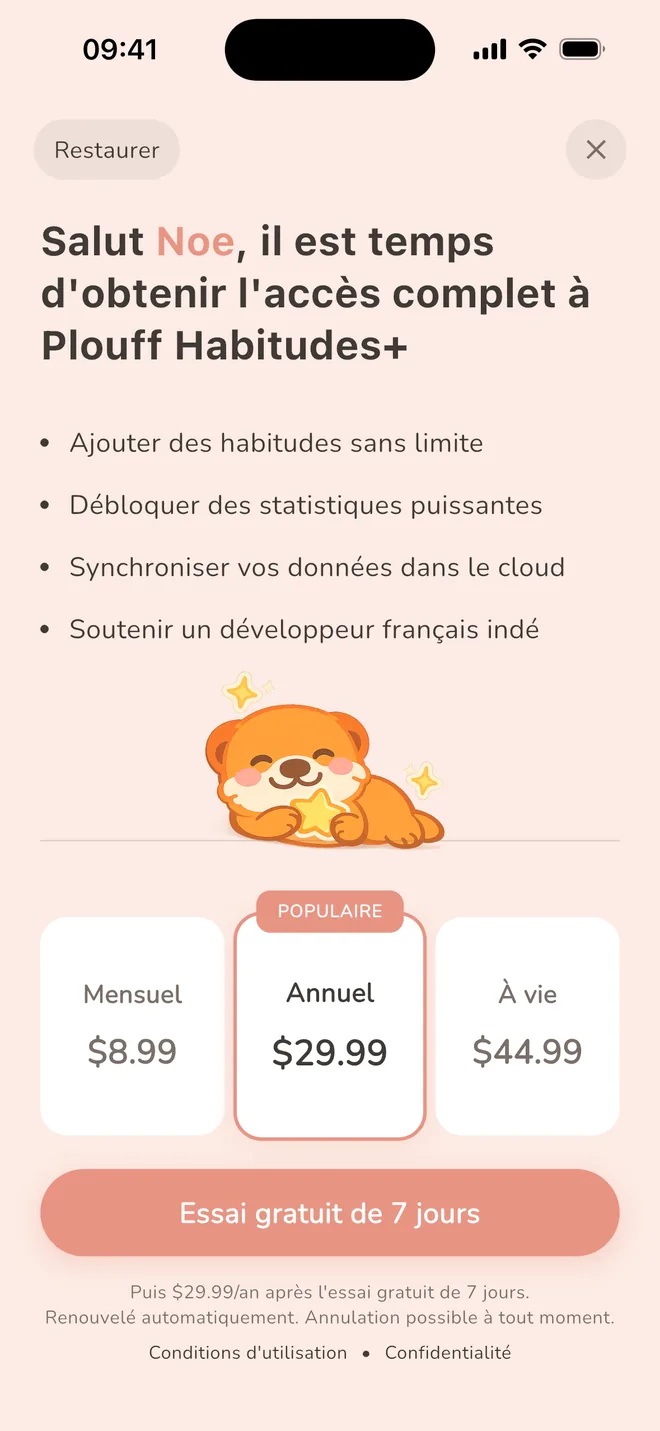
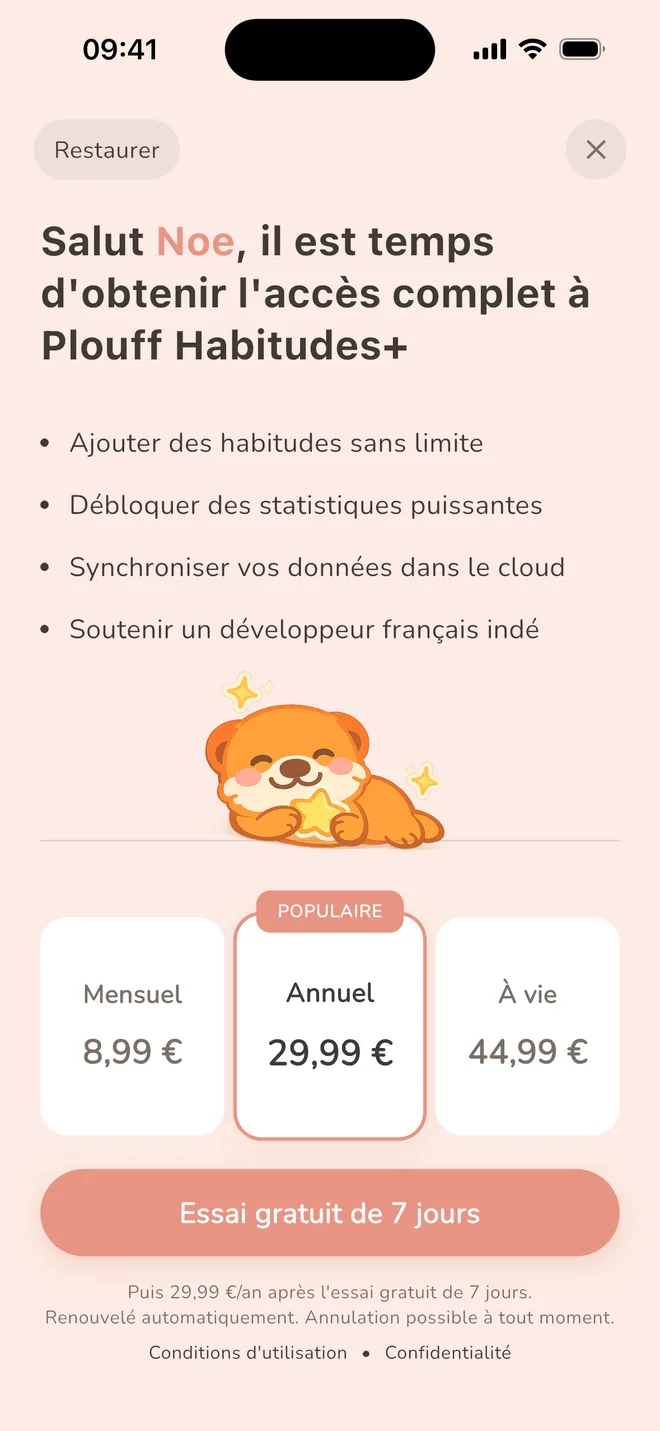
Accueil : les avis clients répondent à « Pourquoi me faire confiance ? »
« Pourquoi me faire confiance ? » montre trois messages WhatsApp réels de
clients (confirmé par Noé ; les mêmes que sur /projets et dans le surligné
« Témoignages » d'Instagram), recadrés sur la conversation, noms masqués.
Barre du haut : « Avis clients » au lieu de « Qui je suis ».

Retirés : la carte avec la photo (la tête de Noé deux fois avec la barre),
« Je connais ce milieu », et le tableau contre les agences. Le chiffre d'une
agence passe sous le tarif et le délai : « En agence : à partir de
15 000 € », « En agence : 3 à 6 mois ».

Sur ordinateur, moins de vide autour de « Discuter avec Noé » (160 px
jusqu'à « Avis clients » au lieu de 224). Écran d'abonnement de Plouff
Habitudes : la capture de Noé en euros.

Claude-Session: https://claude.ai/code/session_01P65FVpXqpWWQ7RQy5iUe2y

diff --git a/src/App.jsx b/src/App.jsx
@@ -108,28 +108,16 @@ const MONTRER_PASTILLE_HERO = false
 
 // Barre du haut (11/10/2026) : les petits titres des trois sections qui comptent le plus, mot pour mot, dans l'ordre de
 // la page, pour qu'on retrouve en arrivant le mot sur lequel on a cliqué : « Réalisations », « Étapes et tarif » (le
-// prix est la première question de la cible : on doit voir d'un coup d'œil où il est), « Qui je suis ». Plus d'« Audit » : c'est un plus, pas ce qu'on pousse (Noé) ; il reste en bas de page et dans le
-// pied de page, et la route /audit y mène toujours. Les trois tiennent à côté du bouton dès 1024 px.
+// prix est la première question de la cible : on doit voir d'un coup d'œil où il est), « Avis clients » (« Qui je suis »
+// jusqu'au 11/10/2026 : la section est devenue les avis des clients). Plus d'« Audit » : c'est un plus, pas ce qu'on
+// pousse (Noé) ; il reste en bas de page et dans le pied de page, et la route /audit y mène toujours. Les trois tiennent à
+// côté du bouton dès 1024 px.
 const NAV_LINKS = [
   { ancre: 'calories-proof', label: 'Réalisations' },
   { ancre: 'offre', label: 'Étapes et tarif' },
-  { ancre: 'confiance', label: 'Qui je suis' },
+  { ancre: 'confiance', label: 'Avis clients' },
 ]
 
-// « Pourquoi me faire confiance ? » : la comparaison avec une agence, remise le 11/10/2026 à la demande de Noé (« agence
-// vs moi, tu l'as enlevé ? »), sur trois lignes. Elle redit le tarif, le délai et le contact direct, et c'est voulu : le
-// chiffre de l'agence à côté de celui de Noé. La maquette offerte et « je reste là après la mise en ligne » n'y sont
-// plus : les étapes les disent (Noé, 11/10/2026).
-const COMPARAISON_AGENCE = [
-  ['À partir de 15\u00a0000\u00a0€', 'Tarif fixe, connu d’avance'],
-  ['3 à 6 mois de développement', '45\u00a0jours en moyenne'],
-  ['Un chef de projet entre vous', 'Moi, directement, 6\u00a0jours sur\u00a07'],
-]
-
-// Avis clients de « Pourquoi me faire confiance ? ». Vide tant que Noé n'en a pas envoyé : la section n'affiche
-// alors rien de plus. Forme d'un avis : { texte: '…', nom: 'Prénom N.', application: 'Nom de l'application' }.
-// N'ajouter que des avis réels, avec l'accord de la personne.
-const AVIS_CLIENTS = []
 
 // `trigger` permet de re-attacher l'observer quand la page change.
 // Indispensable car les elements .reveal de la home n'existent pas tant
@@ -895,8 +883,10 @@ function App() {
           construis » depuis le 11/10/2026 (« c'est moi qui m'occupe de tout », Noé ; avant : « On construit ensemble »). Sous les étapes,
           le tarif et le délai, chacun avec son icône : ils trient les budgets avant WhatsApp (la réponse de la FAQ est
           repliée, ceux-ci se voient).
-          Le bouton dit « Discuter avec Noé », la suite de l'étape 1 « On en parle ». Id « offre » : lien « Étapes ». */}
-      <section className="py-14 md:py-28 px-5 bg-card" id="offre">
+          Le bouton dit « Discuter avec Noé », la suite de l'étape 1 « On en parle ». Sur ordinateur, moins d'air sous le
+          bouton (80 px au lieu de 112, et 80 au-dessus des avis) : il y avait 224 px vides entre lui et « Avis clients »
+          (Noé, 11/10/2026). Id « offre » : lien « Étapes ». */}
+      <section className="pt-14 pb-14 md:pt-28 md:pb-20 px-5 bg-card" id="offre">
         <div className="max-w-275 mx-auto">
           <p className="reveal text-brand font-semibold text-[0.78rem] tracking-widest uppercase text-center mb-3">
             Étapes et tarif
@@ -949,23 +939,29 @@ function App() {
           {/* Le prix et le délai, sous les trois étapes : deux repères avec leur icône (Noé, 11/10/2026 : une seule ligne
               de texte « faisait fade »). Le délai est « 45 jours en moyenne », sans « première version » (Noé, 11/10/2026 :
               45 jours partout, FAQ comprise). « Mobile ou web » et pas « SaaS » : « SaaS » ne s'écrit jamais seul
-              (documentation/context/vocabulaire-mobile-web.md, règle 6 bis). Mise en page : `.etape-tarif` dans src/App.css. */}
+              (documentation/context/vocabulaire-mobile-web.md, règle 6 bis). Sous chaque repère, le chiffre d'une agence (« à partir de
+              15 000 € », « 3 à 6 mois ») : le contraste se lit au moment où on lit le prix, à la place du tableau « Une agence /
+              Avec moi » de « Pourquoi me faire confiance ? », retiré le 11/10/2026 (deux tableaux croix/coche à la suite, et
+              « un chef de projet entre vous », Noé : « il s'en fout, il veut un résultat »). Mise en page : `.etape-tarif` dans
+              src/App.css. */}
           <ul className="reveal etape-tarif">
             <li>
               <span className="etape-tarif-icone" aria-hidden="true"><BadgeEuro size={20} strokeWidth={2} /></span>
               <span className="etape-tarif-texte">
                 <strong>Tarif fixe</strong> En général une dizaine de milliers d'euros&nbsp;: stratégie, maquette, développement et mise en ligne.
+                <span className="etape-tarif-agence">En agence&nbsp;: à partir de 15&nbsp;000&nbsp;€</span>
               </span>
             </li>
             <li>
               <span className="etape-tarif-icone" aria-hidden="true"><Timer size={20} strokeWidth={2} /></span>
               <span className="etape-tarif-texte">
                 <strong>45&nbsp;jours en moyenne</strong> Pour une application mobile ou web.
+                <span className="etape-tarif-agence">En agence&nbsp;: 3 à 6&nbsp;mois</span>
               </span>
             </li>
           </ul>
 
-          <div className="reveal flex flex-col items-center mt-8 md:mt-12">
+          <div className="reveal flex flex-col items-center mt-8 md:mt-10">
             <a
               href={lienInterne('/rendez-vous')}
               onClick={goBookCall}
@@ -981,70 +977,43 @@ function App() {
         </div>
       </section>
 
-      {/* ========== POURQUOI ME FAIRE CONFIANCE ========== */}
-      {/* Refonte du 10/10/2026, revue le 11/10/2026 avec Noé. À gauche, la carte : la photo, « Je connais ce milieu » et
-          « J'ai lancé mes propres applications. » (les mots de Noé ; « Je travaille sur la tienne comme si c'était la
-          mienne » lui semblait bizarre). Ses applications ne sont PAS nommées ici : WakeUp Alarme et Plouff Habitudes
-          sont dans le carrousel « Ce que j'ai déjà construit », et les nommer ici ferait relire tout le carrousel comme
-          « ses applications à lui, pas celles de ses clients ». Le titre du carrousel est vrai pour toutes ; ne jamais
-          écrire nulle part qu'elles sont à des clients. À droite, la comparaison avec une agence, sur trois lignes
-          (COMPARAISON_AGENCE). Retirés : le nom et « Expert en applications mobiles & web » (la barre du haut les
-          affiche déjà), « Je fais tout moi-même » (le sous-titre du hero le dit, et Noé craignait qu'on lise « pas
-          spécialisé, pas expert ») et « une dizaine d'idées par semaine » (mot pour mot dans la vidéo). Les avis clients
-          iront dans AVIS_CLIENTS (vide pour l'instant : rien n'est affiché). Id « confiance » : la route /avis y mène.
-          Placement de la photo et des deux phrases : `.confiance-…` dans src/App.css. */}
-      <section className="py-16 md:py-28 px-5" id="confiance">
+      {/* ========== POURQUOI ME FAIRE CONFIANCE ? LES AVIS CLIENTS ========== */}
+      {/* Depuis le 11/10/2026, la réponse à « Pourquoi me faire confiance ? », ce sont les clients, pas Noé (Noé : « il veut de
+          la preuve sociale »). Trois messages WhatsApp réels (Noé, 11/10/2026), les mêmes que sur /projets, recadrés sur la
+          conversation (public/assets/images/avis/), le nom des clients masqué comme sur l'Instagram de Noé (le surligné
+          « Témoignages » : ce sont les trois mêmes, il n'y en a pas d'autres pour l'instant). Ordre : l'idée devenue application (le visiteur s'y reconnaît), l'application
+          d'agence qui ne rapportait pas (« pourquoi moi et pas une agence », et la preuve des écrans qui font payer, sans
+          redire la vidéo), puis les délais tenus. Le titre de chaque carte est écrit ici, en JSX : c'est ce que lisent les
+          robots. Juste après le bouton « Discuter avec Noé » des étapes : la preuve arrive au moment où le visiteur hésite.
+          Plus de photo de Noé ici (elle est déjà dans la barre du haut), plus de tableau contre les agences (son chiffre est
+          dans le tarif et le délai, au-dessus). Id « confiance » : la route /avis y mène. Styles : `.avis-…` dans src/App.css. */}
+      <section className="pt-16 pb-16 md:pt-20 md:pb-28 px-5" id="confiance">
         <div className="max-w-275 mx-auto">
           <p className="reveal text-brand font-semibold text-[0.78rem] tracking-widest uppercase text-center mb-3">
-            Qui je suis
+            Avis clients
           </p>
           <h2 className="reveal font-jakarta text-text text-2xl md:text-[2.1rem] font-extrabold tracking-tight text-center mb-8 md:mb-14">
             Pourquoi me faire <span className="text-brand">confiance ?</span>
           </h2>
 
-          <div className="reveal grid grid-cols-1 md:grid-cols-2 gap-4 md:gap-8 max-w-262 mx-auto">
-            <div className="confiance-carte rounded-[20px] bg-brand-wash border border-brand/20 p-6 md:p-8">
-              <img src={mePhoto} alt="Noé Calmes" width="96" height="96" loading="lazy" className="confiance-photo rounded-full object-cover shadow-sm" />
-              <div className="confiance-mots">
-                <p className="confiance-titre font-jakarta text-text font-extrabold tracking-tight">
-                  Je connais ce milieu
-                </p>
-                <p className="confiance-texte text-grey leading-relaxed">
-                  J'ai lancé mes propres applications.
-                </p>
-              </div>
-            </div>
-
-            <div className="rounded-[20px] border border-card-border bg-surface overflow-hidden flex flex-col">
-              <div className="grid grid-cols-2 text-[0.85rem] md:text-[0.9rem] font-bold">
-                <p className="px-4 md:px-6 py-3.5 text-grey bg-card">Une agence</p>
-                <p className="px-4 md:px-6 py-3.5 text-brand bg-brand/6">Avec moi</p>
-              </div>
-              {COMPARAISON_AGENCE.map(([agence, moi]) => (
-                <div key={moi} className="grid grid-cols-2 border-t border-card-border flex-1">
-                  <p className="flex items-center gap-2 px-4 md:px-6 py-3.5 text-grey text-[0.82rem] md:text-[0.88rem] leading-snug">
-                    <svg className="shrink-0 text-red-text" width="16" height="16" viewBox="0 0 24 24" fill="none" stroke="currentColor" strokeWidth="2.8" strokeLinecap="round" strokeLinejoin="round" aria-hidden="true"><line x1="18" y1="6" x2="6" y2="18" /><line x1="6" y1="6" x2="18" y2="18" /></svg>
-                    {agence}
-                  </p>
-                  <p className="flex items-center gap-2 px-4 md:px-6 py-3.5 text-text font-semibold text-[0.82rem] md:text-[0.88rem] leading-snug bg-brand/3">
-                    <svg className="shrink-0 text-brand" width="16" height="16" viewBox="0 0 24 24" fill="none" stroke="currentColor" strokeWidth="2.8" strokeLinecap="round" strokeLinejoin="round" aria-hidden="true"><polyline points="20 6 9 17 4 12" /></svg>
-                    {moi}
-                  </p>
-                </div>
-              ))}
-            </div>
-          </div>
-
-          {AVIS_CLIENTS.length > 0 && (
-            <div className="reveal grid grid-cols-1 md:grid-cols-3 gap-4 md:gap-8 max-w-262 mx-auto mt-4 md:mt-8">
-              {AVIS_CLIENTS.map(({ texte, nom, application }) => (
-                <figure key={nom} className="rounded-[20px] border border-card-border bg-surface p-6 text-left">
-                  <blockquote className="text-text text-[0.95rem] leading-relaxed">« {texte} »</blockquote>
-                  <figcaption className="mt-4 text-grey text-[0.85rem]"><strong className="text-text">{nom}</strong>, {application}</figcaption>
-                </figure>
-              ))}
-            </div>
-          )}
+          <ul className="reveal avis-liste" aria-label="Messages de clients">
+            <li className="avis-carte">
+              <p className="avis-titre">D'une simple idée à une application qui tourne</p>
+              <img className="avis-capture" src="/assets/images/avis/avis-idee.webp" width="511" height="434" loading="lazy" decoding="async"
+                alt="Message WhatsApp d'un client : au départ, il n'avait qu'une idée en tête, rien de concret. Il remercie Noé d'avoir cadré le projet du début à la fin, en expliquant honnêtement les coûts et les délais." />
+            </li>
+            <li className="avis-carte">
+              <p className="avis-titre">Une application qui existait, mais qui ne rapportait pas</p>
+              <img className="avis-capture" src="/assets/images/avis/avis-agence.webp" width="502" height="610" loading="lazy" decoding="async"
+                alt="Message WhatsApp d'un client : son application, développée par une agence, attirait des utilisateurs, mais peu prenaient un abonnement. Noé a identifié le problème et refait le paywall et l'onboarding : quelques semaines plus tard, l'application génère des revenus." />
+            </li>
+            <li className="avis-carte">
+              <p className="avis-titre">Livré dans les délais, 100&nbsp;% satisfait</p>
+              <img className="avis-capture" src="/assets/images/avis/avis-delais.webp" width="375" height="112" loading="lazy" decoding="async"
+                alt="Message WhatsApp d'un client : l'application a été créée dans les délais annoncés, il est 100 % satisfait du résultat et recommandera Noé autour de lui." />
+            </li>
+          </ul>
+          <p className="reveal avis-note">Messages de clients, reçus sur WhatsApp.</p>
         </div>
       </section>
 

diff --git a/src/App.css b/src/App.css
@@ -20,6 +20,7 @@
 .etape-tarif-icone { width: 38px; height: 38px; border-radius: 11px; display: grid; place-items: center; flex-shrink: 0; background: #f1efff; color: #665dff; }
 .etape-tarif-texte { font-size: 14px; line-height: 1.55; color: #667185; }
 .etape-tarif-texte strong { display: block; margin-bottom: 2px; font-family: 'Plus Jakarta Sans Local', sans-serif; font-size: 16px; font-weight: 800; letter-spacing: -.01em; color: #033475; }
+.etape-tarif-agence { display: block; width: fit-content; margin-top: 8px; padding: 3px 10px; border-radius: 999px; background: #f6f6f8; font-size: 12.5px; line-height: 1.5; color: #8a94a6; }
 @media (min-width: 768px) {
   .etape-tarif { grid-template-columns: 1.45fr 1fr; padding: 8px 26px; margin-top: 28px; }
   .etape-tarif li { padding: 18px 0; }
@@ -27,20 +28,21 @@
   .etape-tarif-texte { font-size: 14.5px; }
 }
 
-/* ===== Accueil : « Pourquoi me faire confiance ? » (11/10/2026) ===== */
-/* La carte de gauche : la photo, « Je connais ce milieu » (sans point : dans cette police, il se détache du mot, et
-   aucun titre de la page n'en a) et « J'ai lancé mes propres applications. ». Sur téléphone, les deux phrases sont à
-   droite de la photo ; à partir de 768 px, à côté de la comparaison, tout se centre sous la photo. */
-.confiance-carte { display: flex; align-items: center; gap: 16px; }
-.confiance-photo { width: 64px; height: 64px; flex-shrink: 0; }
-.confiance-mots { min-width: 0; }
-.confiance-titre { font-size: 1.15rem; line-height: 1.3; }
-.confiance-texte { margin-top: 4px; font-size: 0.95rem; }
+/* ===== Accueil : « Pourquoi me faire confiance ? », les avis clients (11/10/2026) ===== */
+/* Trois cartes : un titre, puis la conversation WhatsApp recadrée. Sur téléphone, une rangée qu'on fait glisser : la carte
+   suivante dépasse à droite pour montrer qu'il y en a d'autres, et la page ne défile jamais de côté (la rangée va
+   seulement jusqu'aux bords de l'écran). À partir de 768 px, trois colonnes. */
+.avis-liste { display: flex; align-items: flex-start; gap: 12px; margin: 0 -20px; padding: 4px 20px 18px; list-style: none; overflow-x: auto; scroll-snap-type: x mandatory; scroll-padding-inline: 20px; scrollbar-width: none; }
+.avis-liste::-webkit-scrollbar { display: none; }
+.avis-carte { flex: 0 0 82%; max-width: 340px; scroll-snap-align: start; display: flex; flex-direction: column; gap: 12px; padding: 16px; border-radius: 20px; background: #fff; border: 1px solid #ebe8f5; box-shadow: 0 14px 30px -26px rgba(59, 47, 208, .5); }
+.avis-titre { font-family: 'Plus Jakarta Sans Local', sans-serif; font-size: 16px; font-weight: 800; line-height: 1.35; letter-spacing: -.01em; color: #033475; }
+.avis-capture { display: block; width: 100%; height: auto; border-radius: 12px; border: 1px solid #ebe8f5; }
+.avis-note { margin-top: 6px; text-align: center; font-size: 13px; color: #8a94a6; }
 @media (min-width: 768px) {
-  .confiance-carte { flex-direction: column; justify-content: center; gap: 18px; text-align: center; }
-  .confiance-photo { width: 96px; height: 96px; }
-  .confiance-titre { font-size: 1.45rem; }
-  .confiance-texte { margin-top: 6px; font-size: 1.02rem; }
+  .avis-liste { display: grid; grid-template-columns: repeat(3, minmax(0, 1fr)); gap: 24px; max-width: 1048px; margin: 0 auto; padding: 0; overflow: visible; }
+  .avis-carte { max-width: none; padding: 20px; }
+  .avis-titre { font-size: 17px; }
+  .avis-note { margin-top: 22px; }
 }
 
 /* Très petits téléphones (moins de 350 px) : l'illustration rétrécit pour laisser « Étape · Offert » à sa gauche */

diff --git a/documentation/architecture/landing-page.md b/documentation/architecture/landing-page.md
@@ -191,7 +191,7 @@ sections deviennent sept. Le texte des sections est écrit dans le JSX de `App` 
 c'est ce que lit le pré-rendu pour les robots (`scripts/generate-routes.js`).
 
 **Un petit titre au-dessus de chaque section** (violet, en capitales, 11/10/2026) : « Réalisations »,
-« Étapes et tarif », « Qui je suis », « Pour qui », « Questions fréquentes ». Noé trouvait bizarre qu'une section n'en ait
+« Étapes et tarif », « Avis clients » (« Qui je suis » jusqu'au 11/10/2026), « Pour qui », « Questions fréquentes ». Noé trouvait bizarre qu'une section n'en ait
 pas ; les liens de la barre du haut reprennent les trois premiers. « Parlons de ton projet » a la pastille des
 places à la place.
 
@@ -208,9 +208,8 @@ répétitif, pas le mettre »). La barre du haut et la vidéo comptent : la barr
 Expert en applications mobiles & web », et la vidéo, lancée sans le son, écrit à l'écran ce que dit la voix (« une
 dizaine d'idées par semaine », « ils reviennent chaque jour, ils paient chaque mois »). Avant d'ajouter une phrase,
 chercher si la page la dit déjà, même avec d'autres mots. Deux exceptions admises : la FAQ, repliée, qui peut
-reprendre le prix et le délai pour ceux qui y vont directement ; et la comparaison avec une agence de « Pourquoi
-me faire confiance ? », dont la colonne « Avec moi » redit le tarif, le délai et le contact direct : c'est le
-chiffre de l'agence à côté de celui de Noé qui compte (Noé l'a redemandée le 11/10/2026).
+reprendre le prix et le délai pour ceux qui y vont directement. (La comparaison avec une agence, qui redisait le
+tarif et le délai, n'existe plus en tableau : le chiffre d'une agence est sous le tarif et le délai des étapes.)
 
 1. **Hero et vidéo** (voir plus haut).
 2. **« Ce que j'ai déjà construit »** (`#calories-proof`, lien « Preuves » de la barre du haut) : « Des
@@ -242,29 +241,30 @@ chiffre de l'agence à côté de celui de Noé qui compte (Noé l'a redemandée 
    Côte à côte sur ordinateur, l'un sous l'autre sur téléphone. **45 jours partout, jamais « première version »**
    (Noé, 11/10/2026 ; la page avait dit 30 jours du 10 au 11/10). « Mobile ou web » et pas « SaaS », que Noé
    proposait : « SaaS » ne s'écrit jamais seul (`documentation/context/vocabulaire-mobile-web.md`, règle 6 bis).
-   Le tarif et le délai sont aussi dans la FAQ, mais la FAQ est repliée : ceux-ci se voient, et trient les
-   budgets avant WhatsApp (question de Noé du 11/10/2026, gardés pour ça). Pas de « tu paies ici » : on ne paie pas à la mise en ligne, il y a un
+   Sous chacun, en gris, le chiffre d'une agence : « En agence : à partir de 15 000 € » et « En agence : 3 à 6
+   mois » (11/10/2026, à la place du tableau « Une agence / Avec moi » : le contraste se lit au moment où on lit le
+   prix). Le tarif et le délai sont aussi dans la FAQ, mais la FAQ est repliée : ceux-ci se voient, et trient les
+   budgets avant WhatsApp (question de Noé du 11/10/2026, gardés pour ça). Sur ordinateur, 40 px au-dessus du bouton
+   « Discuter avec Noé » et 80 px sous lui (au lieu de 48 et 112) : il flottait au milieu de 224 px vides avant
+   « Avis clients » (Noé, 11/10/2026). Pas de « tu paies ici » : on ne paie pas à la mise en ligne, il y a un
    acompte au démarrage. Puis le bouton « Discuter avec Noé » (11/10/2026, la suite de « On en parle » ; il
    mène à « Parlons de ton projet », comme celui du haut). Absorbe « Avant de payer un euro, je t'offre ».
-4. **« Pourquoi me faire confiance ? »** (`#confiance`, sous « Qui je suis » ; la route /avis y mène) : à
-   gauche, une carte avec la photo, « Je connais ce milieu » et « J'ai lancé mes propres applications. » (les mots
-   de Noé, 11/10/2026 ; « Je travaille sur la tienne comme si c'était la mienne », essayé une heure, lui semblait
-   bizarre). Sur téléphone, les deux phrases sont à droite de la photo ; sur ordinateur, tout se centre sous la
-   photo (`.confiance-…` dans `src/App.css`). Pas de point à la fin de la phrase en gras : dans cette police, il se
-   détache du mot. À droite, la comparaison avec une agence (`COMPARAISON_AGENCE`), remise le 11/10/2026 à la
-   demande de Noé (« agence vs moi, tu l'as enlevé ? ») sur trois lignes : « À partir de 15 000 € / Tarif fixe,
-   connu d'avance », « 3 à 6 mois de développement / 45 jours en moyenne », « Un chef de projet entre vous / Moi,
-   directement, 6 jours sur 7 ». La maquette offerte et « je reste là après la mise en ligne » n'y sont plus : les
-   étapes les disent (Noé).
-   **Les applications de Noé ne sont pas nommées ici** (décision de Noé, 11/10/2026) : WakeUp Alarme et Plouff
-   Habitudes sont dans le carrousel « Ce que j'ai déjà construit », et les nommer ici ferait relire tout le
-   carrousel comme « ses applications à lui, pas celles de ses clients ». Le titre du carrousel est vrai pour
-   toutes ; ne jamais écrire nulle part qu'elles sont à des clients.
-   Retirés le 11/10/2026 parce que la page les dit ailleurs : le nom et « Expert en applications mobiles & web »
-   (la barre du haut), « Je fais tout moi-même » (le sous-titre du hero ; et pour Noé, ça peut se lire « pas
-   spécialisé, pas expert ») et « une dizaine d'idées par semaine » (mot pour mot dans la vidéo). Les avis
-   clients iront dans `AVIS_CLIENTS` : vide tant que Noé n'en a pas (rien n'est affiché), n'y mettre que des avis
-   réels, avec l'accord de la personne.
+4. **« Pourquoi me faire confiance ? »** (`#confiance`, sous « Avis clients », lien du même nom dans la barre ; la
+   route /avis y mène) : **les avis des clients** depuis le 11/10/2026 (Noé : « il veut de la preuve sociale »).
+   Trois messages WhatsApp réels (confirmé par Noé), les mêmes que sur /projets et dans le surligné « Témoignages »
+   de son Instagram (il n'y en a pas d'autres pour l'instant), recadrés sur la conversation dans
+   `public/assets/images/avis/`, le nom des clients masqué comme sur Instagram. Chaque carte a un titre écrit dans
+   le JSX (lu par les robots) : « D'une simple idée à une application qui tourne », « Une application qui existait,
+   mais qui ne rapportait pas », « Livré dans les délais, 100 % satisfait ». Le deuxième répond à « pourquoi moi et
+   pas une agence » et prouve les écrans qui font payer, sans redire la vidéo. Dessous : « Messages de clients,
+   reçus sur WhatsApp. » Sur téléphone, une rangée qu'on fait glisser ; sur ordinateur, trois colonnes
+   (`.avis-…` dans `src/App.css`). Ajouter un avis : n'y mettre que des messages réels, avec l'accord de la
+   personne, son nom masqué.
+   Essais retirés le même jour : la carte avec la photo de Noé (sa tête deux fois avec la barre du haut), « Je
+   connais ce milieu, j'ai lancé mes propres applications » (« et alors ? », Noé), le tableau « Une agence / Avec
+   moi » (deux tableaux croix/coche à la suite avec « Pour qui », et « un chef de projet entre vous » : « il s'en
+   fout, il veut un résultat »). Ses applications à lui ne sont nommées nulle part comme telles : le titre du
+   carrousel « Ce que j'ai déjà construit » est vrai pour toutes ; ne jamais écrire qu'elles sont à des clients.
 5. **« On est faits pour travailler ensemble ? »** (`#pour-qui`, sous « Pour qui » ; « C'est pour toi ? »
    jusqu'au 11/10/2026, trop simple pour Noé) : deux « oui » et deux « non » qui se répondent, le budget et le rôle.
    « Oui, si… » : une idée d'application et un budget prévu pour la lancer ; un résultat, sans avoir à t'occuper
@@ -332,7 +332,8 @@ pour le locataire : personne ne se perd. ») et l'écran d'abonnement de Plouff 
 choisi parmi six captures de son bureau : c'est l'écran qui fait payer, celui qui prouve « une application conçue
 pour rapporter » ; légende « L'offre annuelle mise en avant, 7 jours d'essai : le curieux devient abonné. »). Il
 affiche « Salut Noe » et « Soutenir un développeur français indé » : à refaire avec un autre prénom si Noé veut
-qu'on devine moins que Plouff Habitudes est à lui. Noé prévoit un deuxième écran de Sonora.
+qu'on devine moins que Plouff Habitudes est à lui. Prix en euros depuis la capture du 11/10/2026 (la première
+était en dollars). Noé prévoit un deuxième écran de Sonora.
 
 **L'ordre** (Noé, 11/10/2026 : « montrer 3 écrans différents ») : les trois téléphones visibles montrent
 toujours trois applications différentes, jamais deux écrans de la même côte à côte. Deux tours, dans le même

diff --git a/documentation/context/positionnement.md b/documentation/context/positionnement.md
@@ -207,7 +207,7 @@ On peut lancer une première version (MVP) pour valider que les gens paient, ava
 | Code livré — bonne chance pour le lancement | Application pensée pour générer des revenus |
 | Pas de réponse avant 48h minimum | Spécialisé application mobile |
 
-Sur l'accueil (11/10/2026), la comparaison tient en trois lignes : « À partir de 15 000 € / Tarif fixe, connu d'avance », « 3 à 6 mois de développement / 45 jours en moyenne », « Un chef de projet entre vous / Moi, directement, 6 jours sur 7 ». La maquette offerte et l'après-mise en ligne n'y sont plus : les étapes les disent. Voir `documentation/architecture/landing-page.md`, section 4 de l'accueil.
+Sur l'accueil, depuis le 11/10/2026, il n'y a plus de tableau : le chiffre d'une agence est écrit sous le tarif et le délai des étapes (« En agence : à partir de 15 000 € », « En agence : 3 à 6 mois »). « Un chef de projet entre vous » a été retiré : le client veut un résultat, peu lui importe l'organisation (Noé). « Pourquoi me faire confiance ? » montre les avis clients. Voir `documentation/architecture/landing-page.md`, sections 3 et 4 de l'accueil.
 
 Note pour toute carte de comparaison publique : ne pas faire du prix d'appel `5 000 €` la promesse principale. Le contraste doit rester :
 
